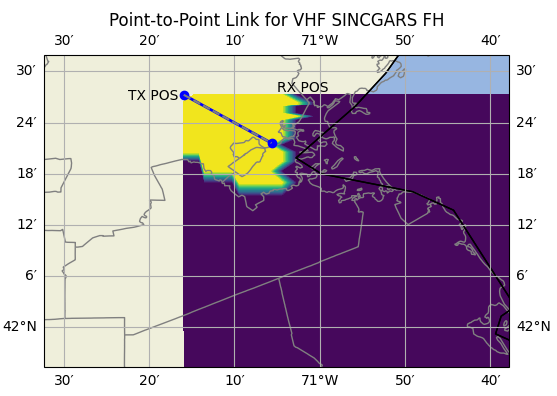
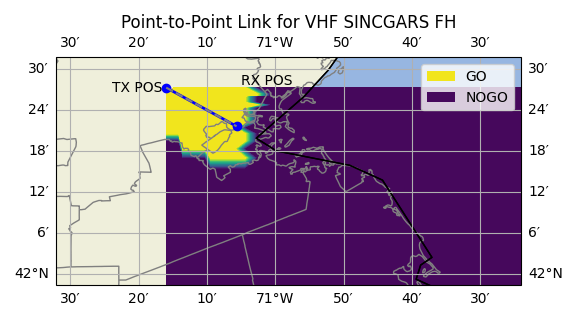
add commit

diff --git a/new_code/sincgars_fh_example.py b/new_code/sincgars_fh_example.py
@@ -105,8 +105,11 @@ plt.text(rx_pos[1] + 0.01, rx_pos[0] + 0.1, 'RX POS',
          horizontalalignment='left',
          transform=ccrs.Geodetic())
 
-plt.contourf(heatmap_pos[:,:,1], heatmap_pos[:,:,0], dg_snr, 30, #levels=[0.1, 0.9], # 30,
+cs = plt.contourf(heatmap_pos[:,:,1], heatmap_pos[:,:,0], dg_snr, 30, #levels=[0.1, 0.9], # 30,
              transform=ccrs.PlateCarree())
 
 plt.title("Point-to-Point Link for VHF SINCGARS FH")
+proxy = [plt.Rectangle((0,0),1,1,fc = pc.get_facecolor()[0]) 
+    for pc in cs.collections]
+plt.legend([proxy[-1], proxy[0]], ["GO", "NOGO"])
 plt.show()
